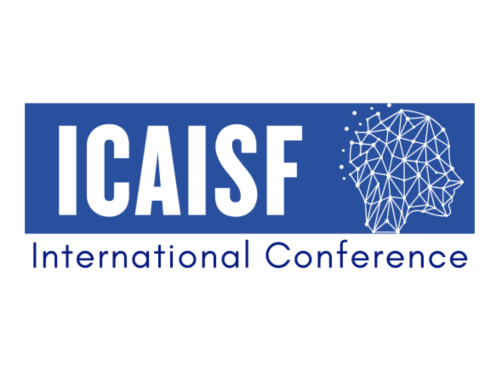
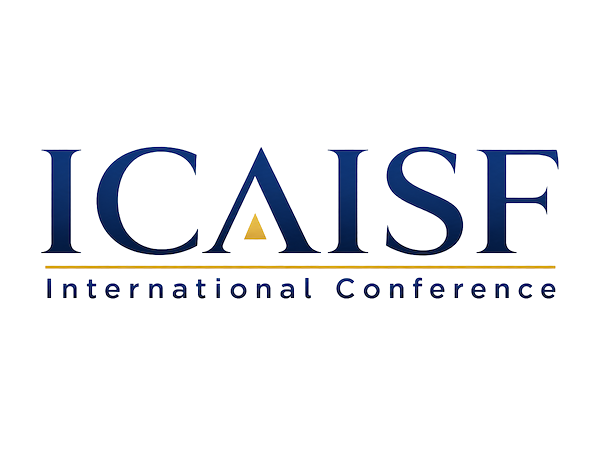
feat: add ICAISF 2026 session chair and update bio
- Add ICAISF 2026 conference block to research activities page
- Update ICAISF conference logo image
- Rewrite about page: AI researcher intro, licensed psychologist background, updated gaming link

diff --git a/_pages/research-activities.md b/_pages/research-activities.md
@@ -102,6 +102,28 @@ _styles: >
         <div class="activity-side">
           <span class="activity-tag activity-tag--conference">Conference</span>
           <div class="activity-thumb">
+            <img src="/assets/img/research_activ_prevs/icaisf.webp" alt="Cover for ICAISF 2026" loading="lazy">
+          </div>
+          <div class="activity-date">Jul 24-25, 2026</div>
+        </div>
+        <div class="activity-body">
+          <div class="activity-heading">
+            <h5 class="activity-title">ICAISF 2026</h5>
+          </div>
+          <div class="activity-meta">
+            <span class="activity-role activity-role--conference">Session Chair</span>
+            <span>University of Catania · Catania (Italy)</span>
+          </div>
+          <p class="activity-description">Session chair of Technical Session 6 at the IEEE 2nd International Conference on AI and Emerging Technology For Sustainable Future, held at the Department of Mathematics and Computer Science, University of Catania.</p>
+          <div class="activity-links">
+            <a class="activity-btn secondary" href="https://icaisf.com/schedule.php" target="_blank" rel="noopener">icaisf.com/schedule</a>
+          </div>
+        </div>
+      </div>
+      <div class="activity-card">
+        <div class="activity-side">
+          <span class="activity-tag activity-tag--conference">Conference</span>
+          <div class="activity-thumb">
             <img src="/assets/img/research_activ_prevs/acmmm25.webp" alt="Cover for ACM Multimedia 2025" loading="lazy">
           </div>
           <div class="activity-date">Oct 27-31, 2025</div>

diff --git a/_pages/about.md b/_pages/about.md
@@ -23,7 +23,7 @@ announcements:
 ---
 
 <p>
-  I'm an AI/NLP researcher with a PhD in Computer Science from the
+  I'm an AI researcher with a PhD in Computer Science from the
   <a href="https://www.unict.it/en" target="_blank" rel="noopener">University of Catania</a>,
   where I worked on the <a href="https://samothrace.eu/" target="_blank" rel="noopener">SAMOTHRACE</a> project and am a member of
   <a href="https://iplab.dmi.unict.it/" target="_blank" rel="noopener">IPLab</a>.
@@ -54,5 +54,5 @@ announcements:
   <span data-i18n="about_personal_part2">
     and
   </span>
-  <a href="https://steamcommunity.com/id/bricioladigelo/" target="_blank" rel="noopener">gaming</a>.
+  <a href="https://www.exophase.com/user/bricioladigelo/" target="_blank" rel="noopener">gaming</a>.
 </p>
